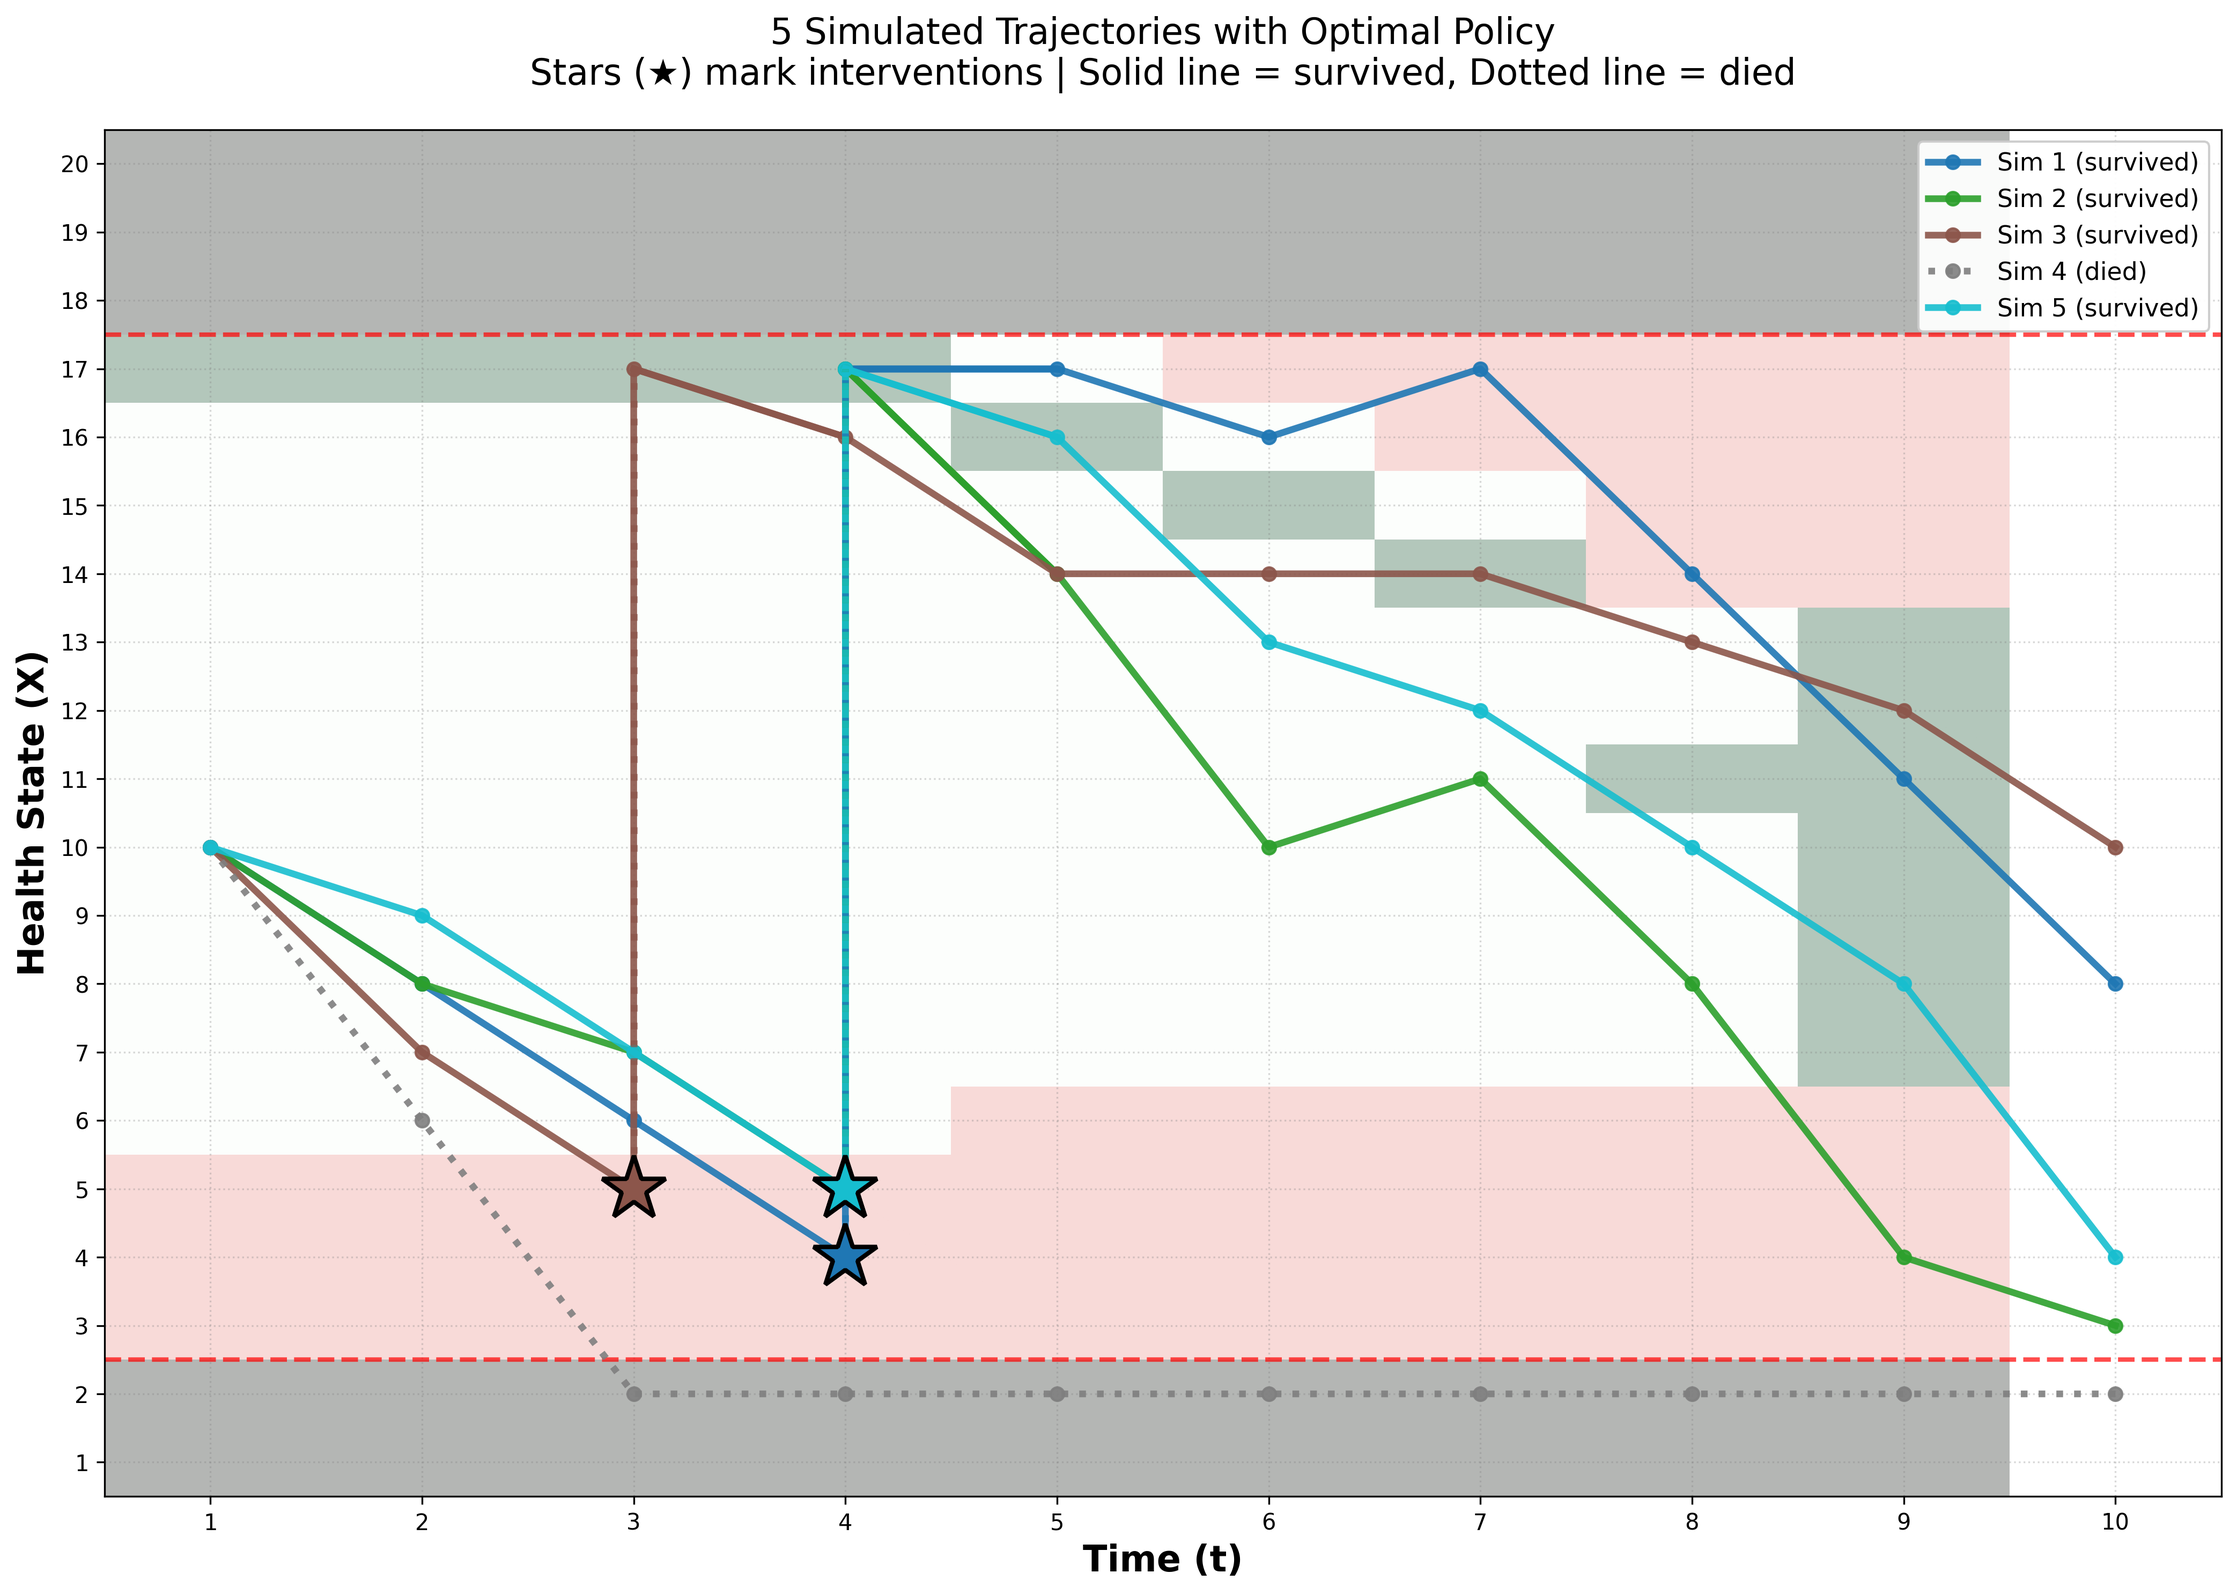
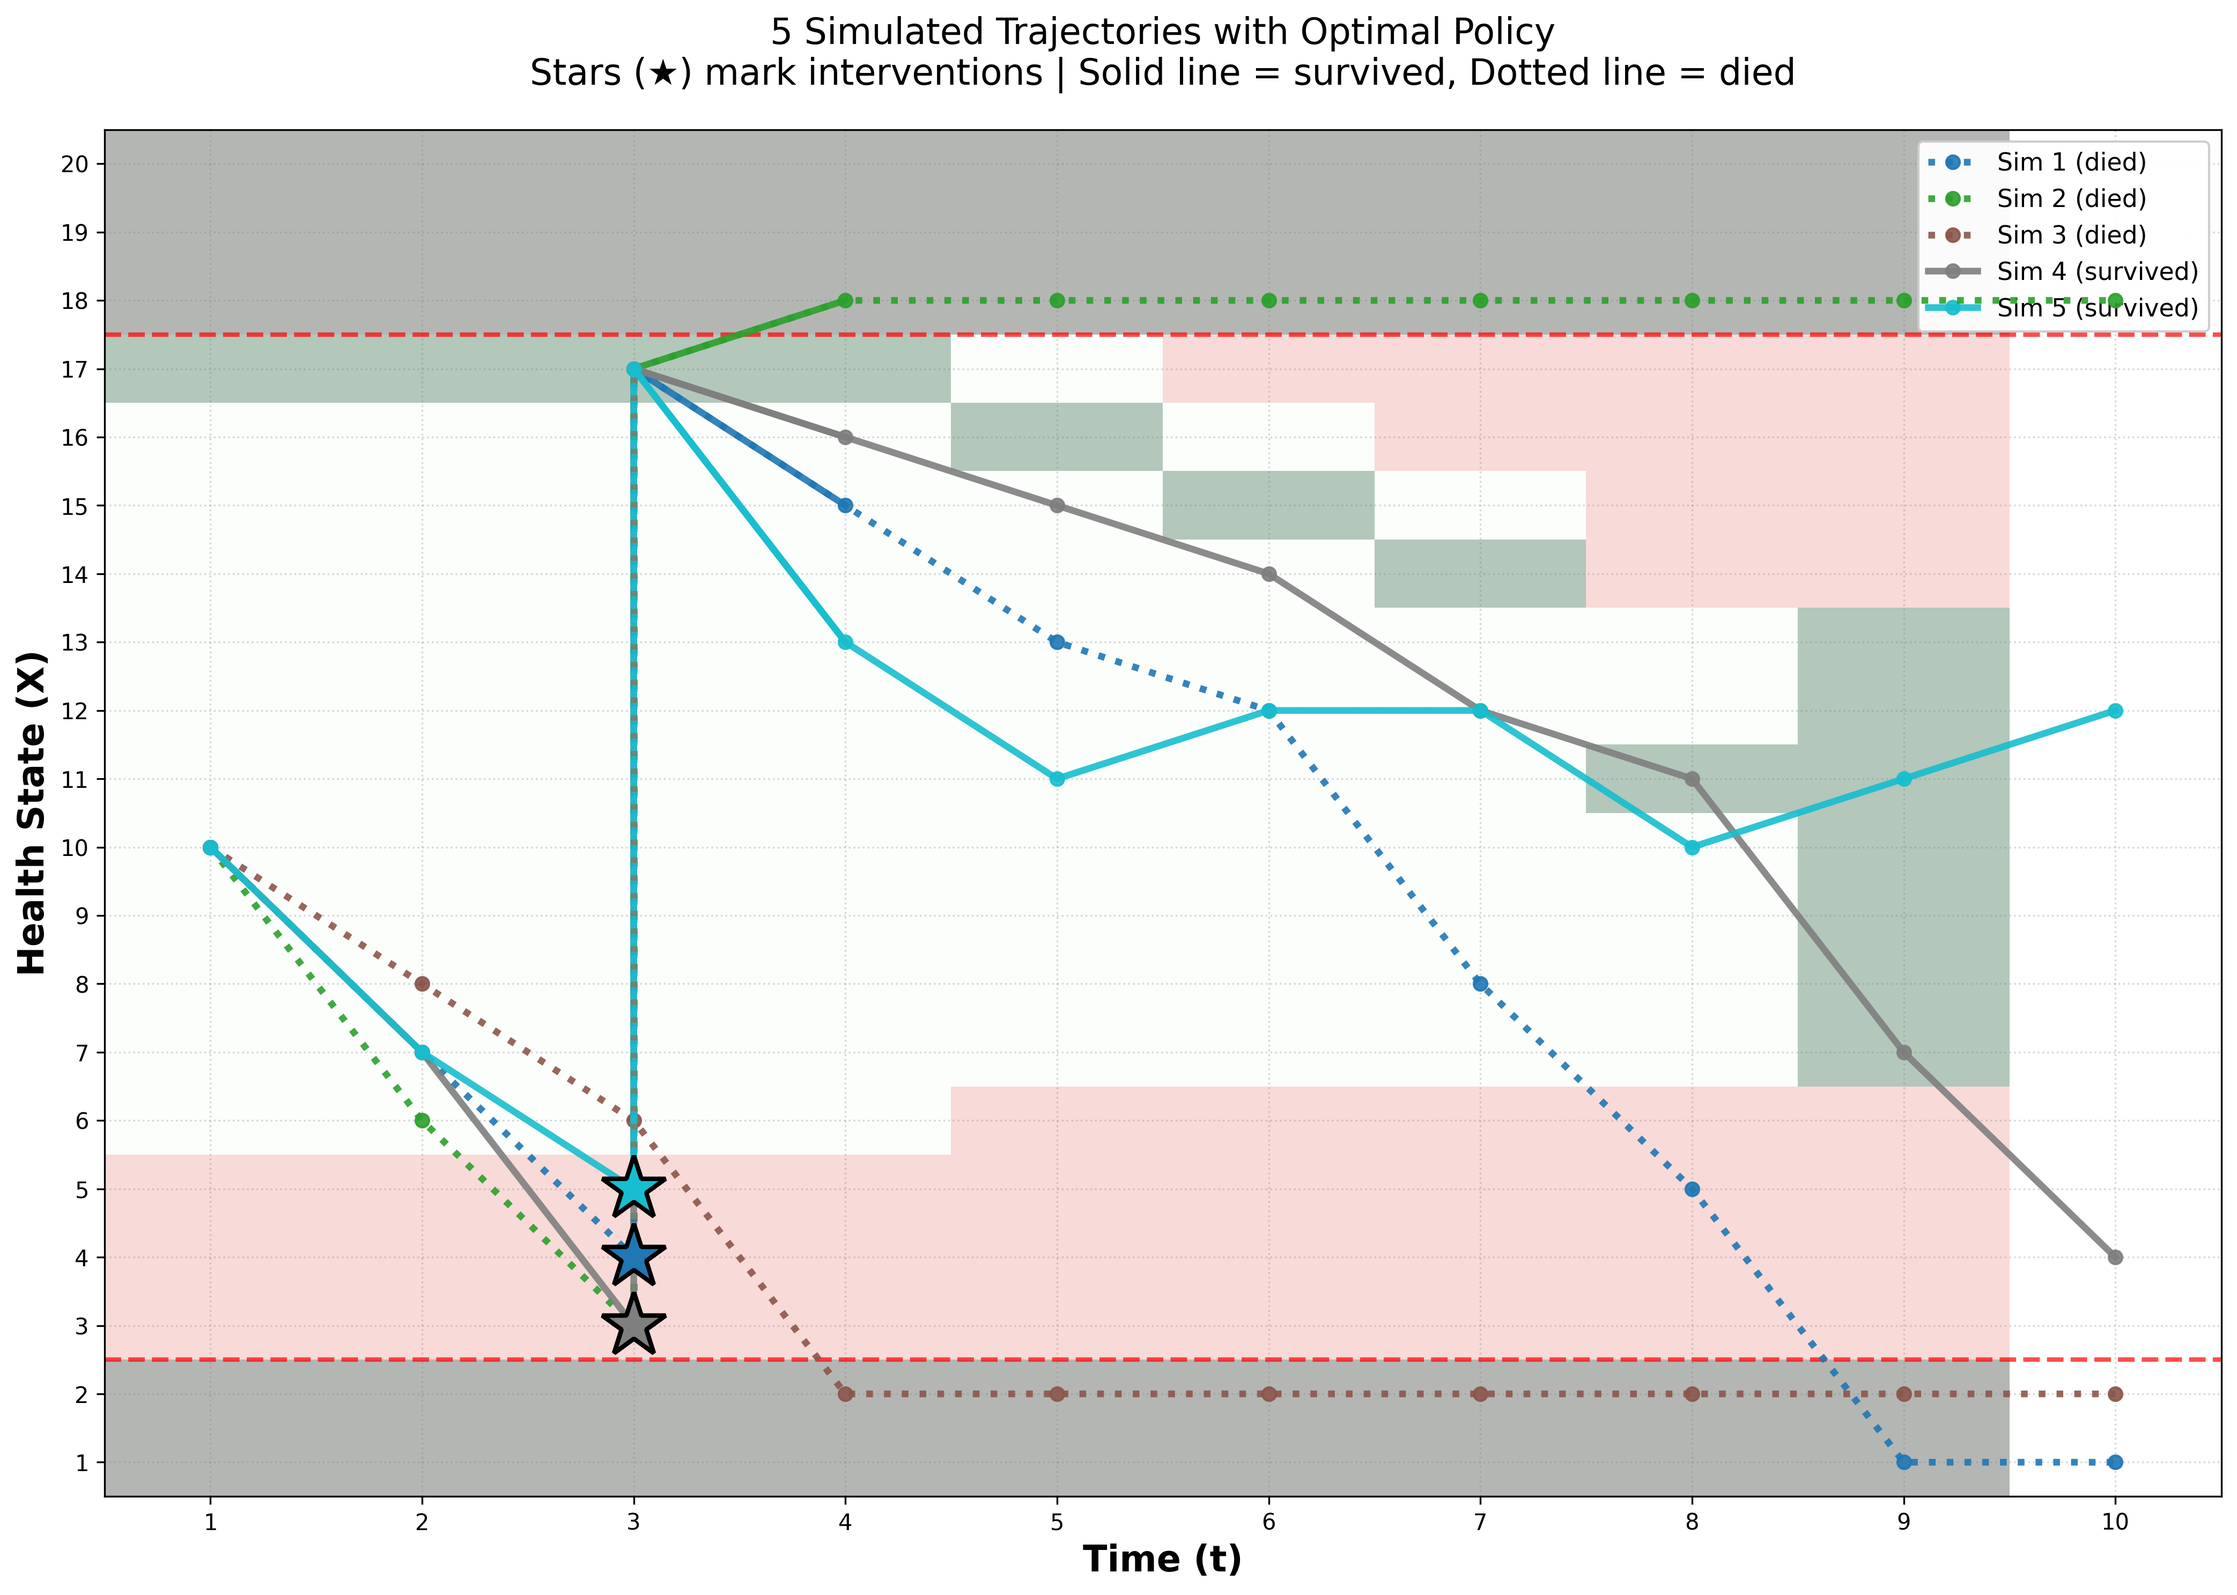
added Monte Carlo

diff --git a/PhaseBOptimalStoppingProb/Scripts/Simple2D.py b/PhaseBOptimalStoppingProb/Scripts/Simple2D.py
@@ -633,11 +633,295 @@ class SimplifiedOptimalStopping:
         print(f"  E[Y with no intervention] = {V_no_intervention:.4f}")
         print(f"  Average Treatment Effect = {ATE:.4f} ({ATE*100:.1f}% improvement)")
 
+    def monte_carlo_validation(self, n_sims=100000, print_results=True, save_to_file=True):
+        """
+        Run large-scale Monte Carlo simulation to validate backward induction
+        
+        Parameters:
+        -----------
+        n_sims : int
+            Number of simulations (default 100,000)
+        print_results : bool
+            Whether to print detailed results to console
+        save_to_file : bool
+            Whether to append results to RESULTS.txt
+        
+        Returns:
+        --------
+        results : dict
+            Complete statistics from Monte Carlo validation
+        """
+        import os
+        from collections import Counter
+        
+        print(f"\nRunning Monte Carlo validation with {n_sims:,} simulations...")
+        print("This may take a few seconds...\n")
+        
+        if not self.policy:
+            print("Solving optimal stopping problem first...")
+            self.solve_optimal_stopping()
+        
+        # Storage for results
+        optimal_results = {
+            'survived': 0,
+            'died': 0,
+            'intervention_times': [],
+            'intervention_targets': [],
+            'never_intervened': 0,
+            'final_states': []
+        }
+        
+        no_intervention_results = {
+            'survived': 0,
+            'died': 0,
+            'final_states': []
+        }
+        
+        # ========================================================================
+        # RUN SIMULATIONS WITH OPTIMAL POLICY
+        # ========================================================================
+        
+        for sim in range(n_sims):
+            # Progress indicator
+            if (sim + 1) % 10000 == 0:
+                print(f"  Progress: {sim + 1:,} / {n_sims:,} simulations complete...")
+            
+            # Initialize
+            t = 1
+            X_current = self.X0
+            I_current = 0
+            intervened = False
+            intervention_time = None
+            intervention_target = None
+            
+            # Run trajectory with optimal policy
+            while t < self.T:
+                # Sample shock
+                U_current = np.random.choice(self.U_values, p=self.U_probs)
+                
+                # Get policy
+                policy = self.policy.get((t, X_current, U_current, I_current), 'WAIT')
+                
+                # Execute action
+                if policy == 'INTERVENE' and I_current == 0:
+                    X_target = self.optimal_intervention_target.get((t, X_current, U_current), X_current)
+                    intervened = True
+                    intervention_time = t
+                    intervention_target = X_target
+                    X_current = X_target
+                    I_current = 1
+                
+                # Transition
+                X_current = self.transition(X_current, U_current)
+                t += 1
+            
+            # Record outcome
+            survived = self.compute_Y(X_current)
+            if survived:
+                optimal_results['survived'] += 1
+            else:
+                optimal_results['died'] += 1
+            
+            optimal_results['final_states'].append(X_current)
+            
+            if intervened:
+                optimal_results['intervention_times'].append(intervention_time)
+                optimal_results['intervention_targets'].append(intervention_target)
+            else:
+                optimal_results['never_intervened'] += 1
+        
+        # ========================================================================
+        # RUN SIMULATIONS WITH NO INTERVENTION
+        # ========================================================================
+        
+        print(f"\n  Running no-intervention baseline simulations...")
+        
+        for sim in range(n_sims):
+            # Initialize
+            t = 1
+            X_current = self.X0
+            
+            # Run trajectory WITHOUT intervention
+            while t < self.T:
+                # Sample shock
+                U_current = np.random.choice(self.U_values, p=self.U_probs)
+                
+                # Just transition (never intervene)
+                X_current = self.transition(X_current, U_current)
+                t += 1
+            
+            # Record outcome
+            survived = self.compute_Y(X_current)
+            if survived:
+                no_intervention_results['survived'] += 1
+            else:
+                no_intervention_results['died'] += 1
+            
+            no_intervention_results['final_states'].append(X_current)
+        
+        # ========================================================================
+        # COMPUTE STATISTICS
+        # ========================================================================
+        
+        # Survival rates
+        optimal_rate = optimal_results['survived'] / n_sims
+        no_int_rate = no_intervention_results['survived'] / n_sims
+        mc_ate = optimal_rate - no_int_rate
+        
+        # Expected values from backward induction
+        V_optimal = 0.0
+        for U1 in self.U_values:
+            prob = self.U_probs[self.U_values.index(U1)]
+            X1 = int(np.floor(self.X0 + U1))
+            X1 = np.clip(X1, self.X_min, self.X_max)
+            V_optimal += prob * self.value_function.get((1, X1, U1, 0), 0)
+        
+        V_no_int = self.solve_no_intervention_baseline()
+        expected_ate = V_optimal - V_no_int
+        
+        # Standard errors
+        se_optimal = np.sqrt(optimal_rate * (1 - optimal_rate) / n_sims)
+        se_no_int = np.sqrt(no_int_rate * (1 - no_int_rate) / n_sims)
+        
+        # Intervention statistics
+        intervention_time_dist = Counter(optimal_results['intervention_times'])
+        intervention_target_dist = Counter(optimal_results['intervention_targets'])
+        
+        avg_intervention_time = (np.mean(optimal_results['intervention_times']) 
+                                if optimal_results['intervention_times'] else None)
+        
+        # ========================================================================
+        # PREPARE OUTPUT
+        # ========================================================================
+        
+        output_lines = []
+        output_lines.append("\n" + "="*70)
+        output_lines.append(f"MONTE CARLO VALIDATION (n={n_sims:,} simulations)")
+        output_lines.append("="*70 + "\n")
+        
+        output_lines.append("OPTIMAL POLICY RESULTS:")
+        output_lines.append(f"  Survived:      {optimal_results['survived']:,} / {n_sims:,} ({optimal_rate*100:.3f}%)")
+        output_lines.append(f"  Died:          {optimal_results['died']:,} / {n_sims:,} ({(1-optimal_rate)*100:.3f}%)")
+        output_lines.append(f"  Expected (BI): {V_optimal*100:.3f}%")
+        output_lines.append(f"  Difference:    {(optimal_rate - V_optimal)*100:+.3f}% (SE: ±{se_optimal*100:.3f}%)")
+        
+        if abs(optimal_rate - V_optimal) < 2 * se_optimal:
+            output_lines.append(f"  Status:        ✓ Within 2 standard errors")
+        else:
+            output_lines.append(f"  Status:        ⚠ Outside 2 standard errors")
+        
+        output_lines.append("\nNO INTERVENTION BASELINE:")
+        output_lines.append(f"  Survived:      {no_intervention_results['survived']:,} / {n_sims:,} ({no_int_rate*100:.3f}%)")
+        output_lines.append(f"  Died:          {no_intervention_results['died']:,} / {n_sims:,} ({(1-no_int_rate)*100:.3f}%)")
+        output_lines.append(f"  Expected (BI): {V_no_int*100:.3f}%")
+        output_lines.append(f"  Difference:    {(no_int_rate - V_no_int)*100:+.3f}% (SE: ±{se_no_int*100:.3f}%)")
+        
+        if abs(no_int_rate - V_no_int) < 2 * se_no_int:
+            output_lines.append(f"  Status:        ✓ Within 2 standard errors")
+        else:
+            output_lines.append(f"  Status:        ⚠ Outside 2 standard errors")
+        
+        output_lines.append("\nAVERAGE TREATMENT EFFECT:")
+        output_lines.append(f"  Monte Carlo:   {mc_ate:.6f} ({mc_ate*100:.3f} pp)")
+        output_lines.append(f"  Expected (BI): {expected_ate:.6f} ({expected_ate*100:.3f} pp)")
+        output_lines.append(f"  Difference:    {(mc_ate - expected_ate)*100:+.3f} pp")
+        
+        output_lines.append("\nINTERVENTION STATISTICS:")
+        output_lines.append(f"  Never intervened:  {optimal_results['never_intervened']:,} / {n_sims:,} ({optimal_results['never_intervened']/n_sims*100:.2f}%)")
+        output_lines.append(f"  Avg. intervention time: t = {avg_intervention_time:.2f}" if avg_intervention_time else "  Avg. intervention time: N/A")
+        
+        output_lines.append("\n  Intervention Time Distribution:")
+        for t in sorted(intervention_time_dist.keys()):
+            count = intervention_time_dist[t]
+            pct = count / n_sims * 100
+            output_lines.append(f"    t={t}: {count:,} ({pct:.2f}%)")
+        
+        output_lines.append("\n  Most Common Targets:")
+        top_targets = intervention_target_dist.most_common(5)
+        for target, count in top_targets:
+            pct = count / len(optimal_results['intervention_targets']) * 100 if optimal_results['intervention_targets'] else 0
+            output_lines.append(f"    X'={target}: {count:,} ({pct:.2f}% of interventions)")
+        
+        output_lines.append("\n" + "="*70)
+        output_lines.append("VALIDATION SUMMARY:")
+        
+        validation_passed = (
+            abs(optimal_rate - V_optimal) < 2 * se_optimal and
+            abs(no_int_rate - V_no_int) < 2 * se_no_int
+        )
+        
+        if validation_passed:
+            output_lines.append("✓ Monte Carlo results match backward induction within statistical error!")
+            output_lines.append("✓ Model implementation is CORRECT!")
+        else:
+            output_lines.append("⚠ Monte Carlo results differ from backward induction")
+            output_lines.append("⚠ Check model implementation")
+        
+        output_lines.append("="*70 + "\n")
+        
+        # ========================================================================
+        # PRINT AND SAVE
+        # ========================================================================
+        
+        output_text = "\n".join(output_lines)
+        
+        if print_results:
+            print(output_text)
+        
+        if save_to_file:
+            import os
+            script_dir = os.path.dirname(os.path.abspath(__file__))
+            results_file = os.path.join(script_dir, 'RESULTS.txt')
+            
+            with open(results_file, 'a') as f:
+                f.write("\n\n")
+                f.write(output_text)
+            
+            print(f"Monte Carlo results appended to RESULTS.txt")
+        
+        # ========================================================================
+        # RETURN RESULTS DICTIONARY
+        # ========================================================================
+        
+        results = {
+            'n_simulations': n_sims,
+            'optimal_policy': {
+                'survived': optimal_results['survived'],
+                'died': optimal_results['died'],
+                'rate': optimal_rate,
+                'expected_rate': V_optimal,
+                'standard_error': se_optimal
+            },
+            'no_intervention': {
+                'survived': no_intervention_results['survived'],
+                'died': no_intervention_results['died'],
+                'rate': no_int_rate,
+                'expected_rate': V_no_int,
+                'standard_error': se_no_int
+            },
+            'ate': {
+                'monte_carlo': mc_ate,
+                'expected': expected_ate
+            },
+            'intervention_stats': {
+                'never_intervened': optimal_results['never_intervened'],
+                'avg_time': avg_intervention_time,
+                'time_distribution': dict(intervention_time_dist),
+                'target_distribution': dict(intervention_target_dist)
+            },
+            'validation_passed': validation_passed
+        }
+        
+        return results
+
 if __name__ == "__main__":
     model = SimplifiedOptimalStopping(X0=10)
     model.solve_optimal_stopping()
     model.print_results('RESULTS.txt')
     model.create_2d_heatmap('intervention_heatmap_2d.png')
     model.simulate_trajectories(n_sims=5, filename='intervention_simulations.png')
+    
+    # Run Monte Carlo validation
+    mc_results = model.monte_carlo_validation(n_sims=100000, print_results=True, save_to_file=True)
     
     print("\nAnalysis Complete!")
